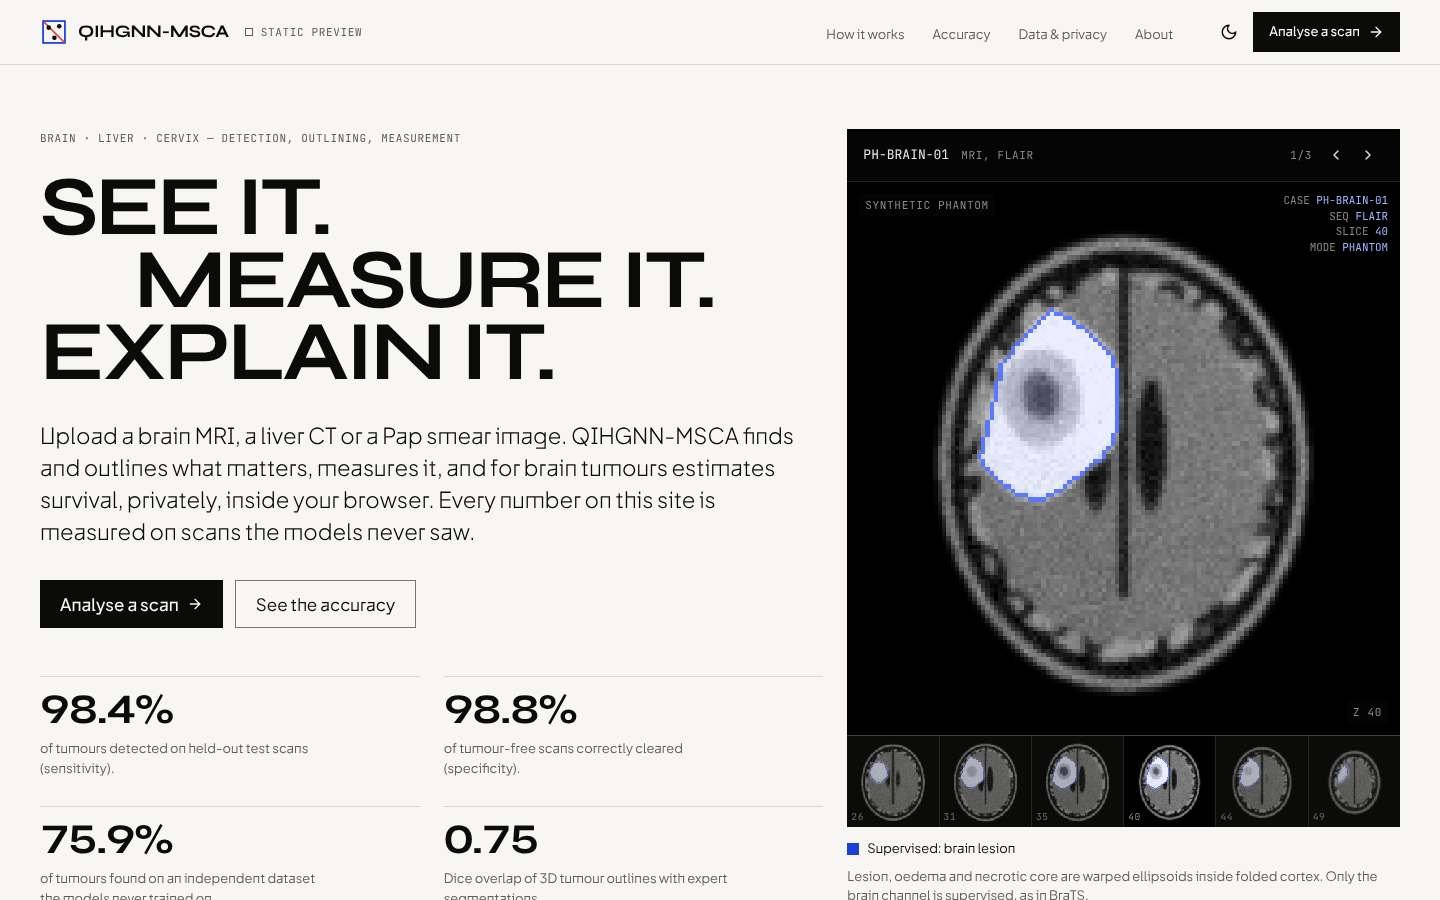
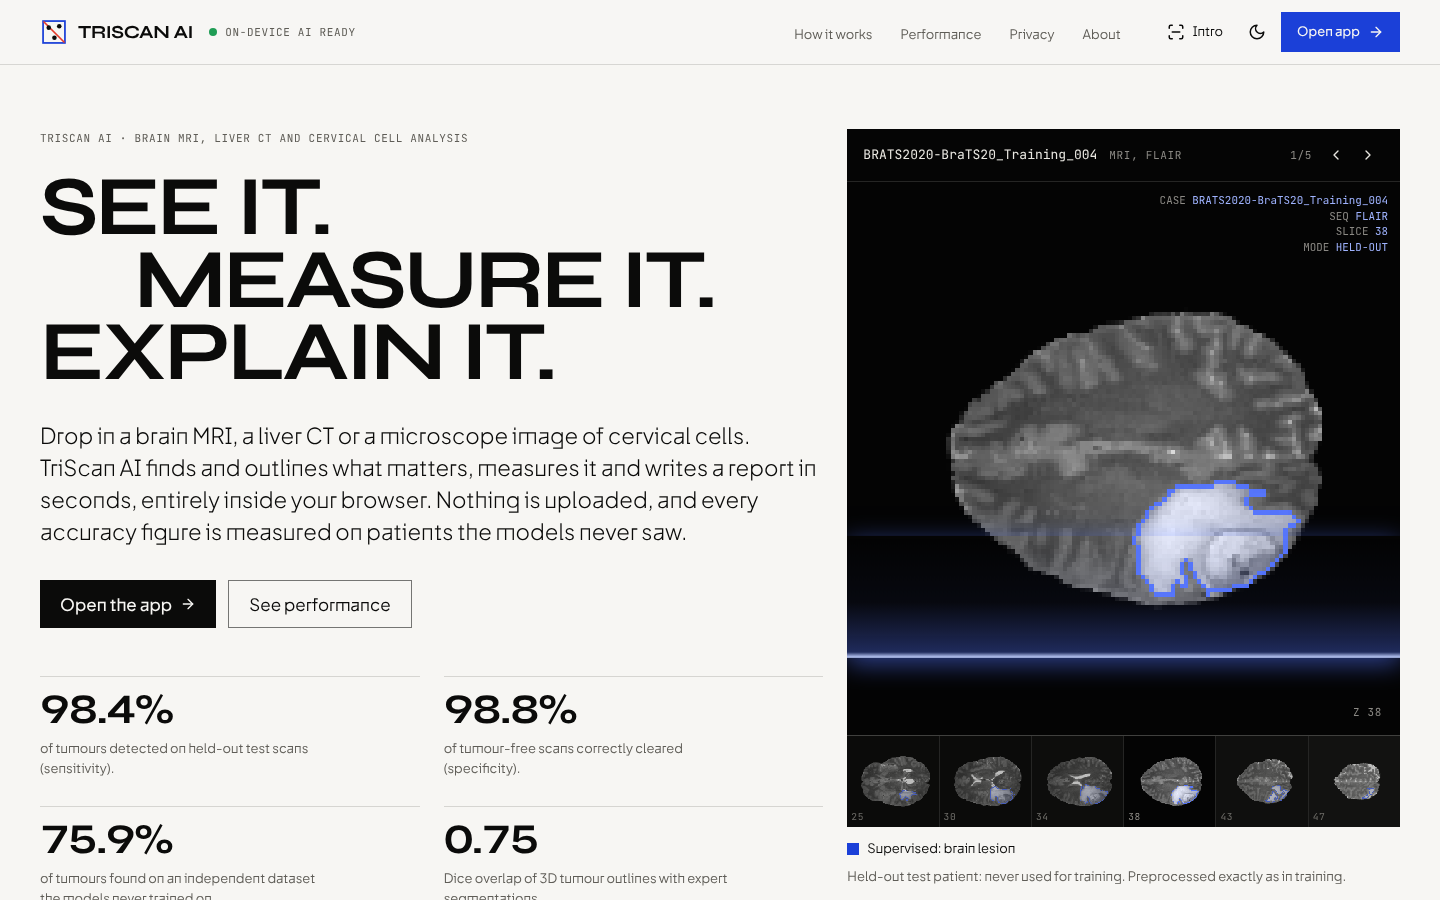
TriScan AI v1.0: product rebrand, installable offline app (PWA), three-step product home page, README refresh
Claude-Session: https://claude.ai/code/session_015mMNjGnUhSi1xSA9WipG7t

diff --git a/web/src/pages/Home.tsx b/web/src/pages/Home.tsx
@@ -1,4 +1,4 @@
-import { LuArrowRight, LuBrain, LuChartLine, LuScanSearch, LuShieldCheck } from 'react-icons/lu';
+import { LuArrowRight, LuBrain, LuChartLine, LuCpu, LuFileText, LuScanSearch, LuShieldCheck, LuUpload } from 'react-icons/lu';
 import { Container } from '../components/chrome';
 import { CountUp, Reveal, Ticker } from '../components/fx';
 import { Hero } from '../components/Hero';
@@ -30,7 +30,7 @@ export function Home({ cases }: { cases: CaseInfo[] }) {
   return (
     <>
       <Hero cases={cases}>
-        <p className="meta mb-6 text-muted">Brain · liver · cervix — detection, outlining, measurement</p>
+        <p className="meta mb-6 text-muted">TriScan AI · brain MRI, liver CT and cervical cell analysis</p>
         {/* Sized in container units so the longest line fills the column at any width. */}
         <h1 id="hero-title" className="display leading-[0.86]" style={{ fontSize: 'calc(100cqi / 9.3)' }}>
           <span className="block">See it.</span>
@@ -38,15 +38,15 @@ export function Home({ cases }: { cases: CaseInfo[] }) {
           <span className="block">Explain it.</span>
         </h1>
         <p className="mt-8 max-w-[54ch] text-lead font-light">
-          Upload a brain MRI, a liver CT or a microscope image of cervical cells. QIHGNN-MSCA finds and outlines what matters, measures it, and for brain
-          tumours estimates survival, privately, inside your browser. Every number on this site is measured on scans the models never saw.
+          Drop in a brain MRI, a liver CT or a microscope image of cervical cells. TriScan AI finds and outlines what matters, measures it and writes
+          a report in seconds, entirely inside your browser. Nothing is uploaded, and every accuracy figure is measured on patients the models never saw.
         </p>
         <div className="mt-8 flex flex-wrap gap-3">
           <Link to="/analyse" className="inline-flex h-12 items-center gap-2 bg-fg px-5 font-medium text-surface no-underline hover:bg-cobalt">
-            Analyse a scan <LuArrowRight className="size-4" aria-hidden="true" />
+            Open the app <LuArrowRight className="size-4" aria-hidden="true" />
           </Link>
           <Link to="/accuracy" className="inline-flex h-12 items-center gap-2 border border-rule-strong px-5 no-underline hover:bg-raised">
-            See the accuracy
+            See performance
           </Link>
         </div>
         <div className="mt-auto grid grid-cols-2 gap-x-6 gap-y-7 pt-12">
@@ -71,7 +71,7 @@ export function Home({ cases }: { cases: CaseInfo[] }) {
       <section className="border-t border-rule-strong py-16 md:py-24" aria-labelledby="what-title">
         <Container>
           <div className="grid grid-cols-12 gap-x-6 gap-y-10">
-            <h2 id="what-title" className="display col-span-12 text-h2 md:col-span-4"><Reveal>Three cancers. One private tool.</Reveal></h2>
+            <h2 id="what-title" className="display col-span-12 text-h2 md:col-span-4"><Reveal>Three cancers. One private app.</Reveal></h2>
             <div className="col-span-12 grid gap-px bg-rule md:col-span-8 md:grid-cols-3">
               {[
                 { icon: LuBrain, to: '/analyse?type=brain', t: 'Brain MRI', d: 'Tumour or not, and which type: glioma, meningioma or pituitary. Outline, volume on 3D scans, a decision heat map and a survival estimate for glioma.', s: ready && t ? `${pct(t.tumour_vs_no_tumour.sensitivity)} of tumours found` : 'Accuracy published after training' },
@@ -89,6 +89,32 @@ export function Home({ cases }: { cases: CaseInfo[] }) {
                 </Reveal>
               ))}
             </div>
+          </div>
+        </Container>
+      </section>
+
+      <section className="border-t border-rule-strong py-16 md:py-24" aria-labelledby="steps-title">
+        <Container>
+          <div className="grid grid-cols-12 gap-x-6 gap-y-10">
+            <h2 id="steps-title" className="display col-span-12 text-h2 md:col-span-4"><Reveal>From scan to report in three steps.</Reveal></h2>
+            <ol className="col-span-12 grid gap-px bg-rule md:col-span-8 md:grid-cols-3">
+              {[
+                { icon: LuUpload, t: 'Drop in a scan', d: 'JPEG or PNG slices, or a whole 3D NIfTI volume. Try a held-out sample if you have none to hand.' },
+                { icon: LuCpu, t: 'AI runs on your device', d: 'Seven models load once and run in a background thread of your browser. No account, no upload, no server.' },
+                { icon: LuFileText, t: 'Review and export', d: 'Drag the slider to compare with the original, read the measurements and print or save the report as a PDF.' },
+              ].map(({ icon: Icon, t: title, d }, i) => (
+                <Reveal key={title} delay={i * 120} className="flex bg-surface">
+                  <li className="flex flex-col p-6">
+                    <span className="flex items-center gap-3">
+                      <span className="font-mono text-small text-muted">0{i + 1}</span>
+                      <Icon className="size-5 text-cobalt" aria-hidden="true" />
+                    </span>
+                    <h3 className="display mt-6 text-h3">{title}</h3>
+                    <p className="mt-3 text-small text-muted">{d}</p>
+                  </li>
+                </Reveal>
+              ))}
+            </ol>
           </div>
         </Container>
       </section>
@@ -116,7 +142,7 @@ export function Home({ cases }: { cases: CaseInfo[] }) {
               </li>
             </ul>
           </div>
-          <Link to="/accuracy" className="mt-10 inline-flex items-center gap-2 text-film-fg">Read the full evaluation <LuArrowRight className="size-4" aria-hidden="true" /></Link>
+          <Link to="/accuracy" className="mt-10 inline-flex items-center gap-2 text-film-fg">See full performance <LuArrowRight className="size-4" aria-hidden="true" /></Link>
         </Container>
       </section>
 
@@ -141,13 +167,13 @@ export function Home({ cases }: { cases: CaseInfo[] }) {
       <section className="border-t border-rule-strong py-16 md:py-24" aria-labelledby="research-title">
         <Container>
           <div className="grid grid-cols-12 gap-x-6 gap-y-8">
-            <p className="meta col-span-12 text-muted md:col-span-3">Under the hood</p>
+            <p className="meta col-span-12 text-muted md:col-span-3">Powered by QIHGNN-MSCA</p>
             <div className="col-span-12 md:col-span-9">
               <h2 id="research-title" className="display max-w-[18ch] text-h2"><Reveal>A research model that learns from incomplete labels.</Reveal></h2>
               <p className="mt-6 max-w-[62ch] text-lead font-light">
-                Public datasets each label one organ. QIHGNN-MSCA is an 8.3-million-parameter 3D network that trains on all of them together
-                without being taught that every unlabelled organ is empty tissue, and predicts survival from the same encoding. The viewer at
-                the top of this page shows it on a synthetic phantom.
+                Public datasets each label one organ. QIHGNN-MSCA, the network behind TriScan AI, is an 8.3-million-parameter 3D model that trains
+                on all of them together without being taught that every unlabelled organ is empty tissue, and predicts survival from the same
+                encoding. The viewer at the top of this page shows real held-out patients, and How it works runs the network on them live in your browser.
               </p>
               <Link to="/how-it-works" className="mt-6 inline-flex items-center gap-2">How it works <LuArrowRight className="size-4" aria-hidden="true" /></Link>
             </div>

diff --git a/web/src/components/chrome.tsx b/web/src/components/chrome.tsx
@@ -1,5 +1,6 @@
 import { useEffect, useState, type ReactNode } from 'react';
-import { LuArrowRight, LuMenu, LuMoon, LuScanLine, LuSun, LuX } from 'react-icons/lu';
+import { LuArrowRight, LuDownload, LuMenu, LuMoon, LuScanLine, LuSun, LuX } from 'react-icons/lu';
+import { useInstall } from '../lib/pwa';
 import { Link, openIntro, ROUTES } from '../lib/router';
 import type { ApiState } from '../lib/data';
 
@@ -49,9 +50,11 @@ export function StatusDot({ api }: { api: ApiState }) {
     );
   }
   return (
-    <span className="inline-flex items-center gap-2" title="The Python API is not running. Everything except running the network works.">
-      <span className="inline-flex size-2 border border-muted" />
-      <span className="meta text-muted">Static preview</span>
+    <span className="inline-flex items-center gap-2" title="All models run in your browser. No server needed, nothing uploaded.">
+      <span className="relative flex size-2">
+        <span className="relative inline-flex size-2 rounded-full bg-[#1f9d55]" />
+      </span>
+      <span className="meta text-muted">On-device AI ready</span>
     </span>
   );
 }
@@ -60,6 +63,7 @@ const NAV = ROUTES.filter((r) => r.path !== '/' && r.path !== '/analyse');
 
 export function Header({ api, path }: { api: ApiState; path: string }) {
   const [theme, toggle] = useTheme();
+  const install = useInstall();
   const [menu, setMenu] = useState(false);
   useEffect(() => setMenu(false), [path]);
   return (
@@ -68,7 +72,7 @@ export function Header({ api, path }: { api: ApiState; path: string }) {
         <Link
           to="/"
           className="flex items-center gap-2.5 no-underline"
-          aria-label="QIHGNN-MSCA: back to the interactive intro"
+          aria-label="TriScan AI: back to the interactive intro"
           title="Back to the interactive intro"
           onClick={(e) => {
             if (e.button !== 0 || e.metaKey || e.ctrlKey || e.shiftKey || e.altKey) return;
@@ -77,7 +81,7 @@ export function Header({ api, path }: { api: ApiState; path: string }) {
           }}
         >
           <Mark className="size-7" />
-          <span className="display text-[1.1rem] tracking-[-0.02em]">QIHGNN-MSCA</span>
+          <span className="display text-[1.15rem] tracking-[-0.02em]">TriScan AI</span>
         </Link>
         <span className="hidden lg:inline-flex">
           <StatusDot api={api} />
@@ -108,6 +112,18 @@ export function Header({ api, path }: { api: ApiState; path: string }) {
             <LuScanLine className="size-[18px]" aria-hidden="true" />
             <span className="hidden xl:inline">Intro</span>
           </button>
+          {install && (
+            <button
+              type="button"
+              onClick={install}
+              className="inline-flex h-10 items-center gap-2 px-2.5 text-small text-fg hover:bg-raised"
+              aria-label="Install TriScan AI as an app"
+              title="Install TriScan AI as an app (works offline)"
+            >
+              <LuDownload className="size-[18px]" aria-hidden="true" />
+              <span className="hidden xl:inline">Install app</span>
+            </button>
+          )}
           <button
             type="button"
             onClick={toggle}
@@ -121,7 +137,7 @@ export function Header({ api, path }: { api: ApiState; path: string }) {
             aria-current={path === '/analyse' ? 'page' : undefined}
             className="hidden h-10 items-center gap-2 bg-fg px-4 text-small font-medium text-surface no-underline hover:bg-cobalt sm:inline-flex"
           >
-            Analyse a scan <LuArrowRight className="size-4" aria-hidden="true" />
+            Open app <LuArrowRight className="size-4" aria-hidden="true" />
           </Link>
           <button
             type="button"

diff --git a/web/src/components/Footer.tsx b/web/src/components/Footer.tsx
@@ -1,4 +1,4 @@
-import { BUILD, VERSION } from '../lib/build';
+import { BUILD, MODEL, VERSION } from '../lib/build';
 import { Link, openIntro, ROUTES } from '../lib/router';
 import type { Verification } from '../lib/types';
 import { Container, Mark } from './chrome';
@@ -20,29 +20,30 @@ export function Footer({ verification }: { verification: Verification | null }) 
           <div className="col-span-12 lg:col-span-5">
             <Link to="/" className="flex items-center gap-3 no-underline">
               <Mark className="size-9 shrink-0" />
-              <span className="display text-[1.35rem]">QIHGNN-MSCA</span>
+              <span className="display text-[1.35rem]">TriScan AI</span>
             </Link>
             <p className="mt-4 max-w-[46ch] text-small text-muted">
-              Brain tumour detection and prognosis, liver tumour and cervical cell analysis in the browser, with accuracy measured in the open.
+              Private AI for medical scans: brain MRI, liver CT and cervical cell analysis that runs entirely in your browser, powered by the {MODEL} network.
             </p>
-            <p className="mt-6 text-small">A project by <span className="font-medium">Anindita Mondal</span>.</p>
+            <p className="mt-6 text-small">Designed and built by <span className="font-medium">Anindita Mondal</span>. © {new Date().getFullYear()}</p>
           </div>
           <div className="col-span-12 grid grid-cols-2 gap-x-6 gap-y-8 sm:grid-cols-3 lg:col-span-7">
-            <Col title="Site">
+            <Col title="Product">
               <ul className="space-y-2">
                 {ROUTES.map((r) => <li key={r.path}><Link to={r.path} className="no-underline hover:underline">{r.name}</Link></li>)}
               </ul>
             </Col>
-            <Col title="Project">
+            <Col title="Resources">
               <ul className="space-y-2">
                 <li><Link to="/about#limitations" className="no-underline hover:underline">Intended use and limitations</Link></li>
                 <li><Link to="/data" className="no-underline hover:underline">Privacy</Link></li>
                 <li><button type="button" onClick={openIntro} className="text-left hover:underline">Replay the intro</button></li>
               </ul>
             </Col>
-            <Col title="Build">
+            <Col title="Release">
               <p className="font-mono text-[0.75rem] leading-relaxed text-muted">
-                v{VERSION}<br />
+                TriScan AI v{VERSION}<br />
+                model {MODEL}<br />
                 {BUILD.commit ? `commit ${BUILD.commit}` : 'local build'}<br />
                 {verification ? `maths verified ${verification.generated_at.slice(0, 10)}` : ''}
               </p>

diff --git a/web/index.html b/web/index.html
@@ -4,8 +4,18 @@
     <meta charset="utf-8" />
     <base href="%BASE%" />
     <meta name="viewport" content="width=device-width, initial-scale=1" />
-    <title>QIHGNN-MSCA · Brain tumour detection, outlining and prognosis</title>
-    <meta name="description" content="Upload a brain MRI and get a tumour check, an outline and a survival estimate, computed privately in your browser. Every number is measured on held-out and external data." />
+    <title>TriScan AI · Brain MRI, liver CT and cervical cell analysis in your browser</title>
+    <meta name="description" content="TriScan AI analyses brain MRI, liver CT and cervical cell images in seconds, entirely in your browser: detection, outlines, measurements and a report. Nothing is uploaded." />
+    <meta name="application-name" content="TriScan AI" />
+    <meta name="apple-mobile-web-app-title" content="TriScan AI" />
+    <meta name="theme-color" content="#0B0B0A" />
+    <meta property="og:type" content="website" />
+    <meta property="og:title" content="TriScan AI · Medical scan analysis in your browser" />
+    <meta property="og:description" content="Brain MRI, liver CT and cervical cell analysis that runs entirely in your browser. Nothing is uploaded." />
+    <meta property="og:image" content="https://aninditamondal303.github.io/QIHGNN-MSCA-Quantum-Inspired-Hypergraph-Neural-Network-for-Multi-Organ-Segmentation-Prognosis/icons/og.png" />
+    <meta name="twitter:card" content="summary_large_image" />
+    <link rel="manifest" href="manifest.webmanifest" />
+    <link rel="apple-touch-icon" href="icons/icon-192.png" />
     <meta name="color-scheme" content="light dark" />
     <link rel="icon" href="favicon.svg" type="image/svg+xml" />
     <link rel="preload" href="fonts/Syne-var.woff" as="font" type="font/woff" crossorigin />

diff --git a/web/src/lib/pwa.ts b/web/src/lib/pwa.ts
@@ -1,0 +1,52 @@
+import { useEffect, useState } from 'react';
+
+/** Offline support and install prompt. The service worker is registered on the deployed site only,
+ *  so local development and the browser tests always see fresh files. */
+const LOCAL = ['localhost', '127.0.0.1', '[::1]'].includes(location.hostname);
+
+export function registerServiceWorker(): void {
+  if (LOCAL || !('serviceWorker' in navigator)) return;
+  window.addEventListener('load', () => {
+    navigator.serviceWorker.register('sw.js').catch(() => {
+      /* offline support is a bonus; the app works without it */
+    });
+  });
+}
+
+interface InstallEvent extends Event {
+  prompt: () => Promise<void>;
+  userChoice: Promise<{ outcome: 'accepted' | 'dismissed' }>;
+}
+
+let deferred: InstallEvent | null = null;
+const listeners = new Set<() => void>();
+window.addEventListener('beforeinstallprompt', (e) => {
+  e.preventDefault();
+  deferred = e as InstallEvent;
+  listeners.forEach((f) => f());
+});
+window.addEventListener('appinstalled', () => {
+  deferred = null;
+  listeners.forEach((f) => f());
+});
+
+/** Returns an install function while the browser offers installation, otherwise null. */
+export function useInstall(): (() => Promise<void>) | null {
+  const [, tick] = useState(0);
+  useEffect(() => {
+    const f = () => tick((n) => n + 1);
+    listeners.add(f);
+    return () => {
+      listeners.delete(f);
+    };
+  }, []);
+  if (!deferred) return null;
+  return async () => {
+    const d = deferred;
+    if (!d) return;
+    await d.prompt();
+    await d.userChoice;
+    deferred = null;
+    listeners.forEach((f) => f());
+  };
+}

diff --git a/web/src/pages/Intro.tsx b/web/src/pages/Intro.tsx
@@ -382,14 +382,14 @@ export function Intro({ onEnter }: { onEnter: () => void }) {
       />
 
       <div className="pointer-events-none absolute inset-x-0 top-0 flex items-center justify-between px-5 py-5 sm:px-10">
-        <span className="font-display text-[0.95rem] font-bold tracking-tight">QIHGNN-MSCA</span>
+        <span className="font-display text-[0.95rem] font-bold tracking-tight">TriScan AI</span>
         <button type="button" onClick={finish} className="pointer-events-auto font-mono text-[0.72rem] uppercase tracking-[0.18em] text-[#f2f1ec]/70 hover:text-white focus-visible:outline focus-visible:outline-2 focus-visible:outline-white">
           Skip intro →
         </button>
       </div>
 
       <div className="pointer-events-none absolute left-5 top-[18%] max-w-[90vw] sm:left-10 sm:top-1/2 sm:-translate-y-1/2">
-        <p className="font-mono text-[0.7rem] uppercase tracking-[0.22em] text-[#f2f1ec]/55">Quantum-inspired hypergraph network · by Anindita Mondal</p>
+        <p className="font-mono text-[0.7rem] uppercase tracking-[0.22em] text-[#f2f1ec]/55">TriScan AI · medical scan analysis · by Anindita Mondal</p>
         <h1 className="mt-4 font-display font-extrabold uppercase leading-[0.86] tracking-tight" style={{ fontSize: 'clamp(2.9rem, 7.2vw, 7.4rem)' }}>
           Look<br />inside
           <span key={organ} className="intro-word block text-[#5474ff]">{ORGANS[organ].line}</span>

diff --git a/web/src/lib/router.tsx b/web/src/lib/router.tsx
@@ -8,8 +8,8 @@ export const ROUTES = [
   { path: '/', name: 'Home' },
   { path: '/analyse', name: 'Analyse a scan' },
   { path: '/how-it-works', name: 'How it works' },
-  { path: '/accuracy', name: 'Accuracy' },
-  { path: '/data', name: 'Data & privacy' },
+  { path: '/accuracy', name: 'Performance' },
+  { path: '/data', name: 'Privacy' },
   { path: '/about', name: 'About' },
 ] as const;
 
@@ -71,6 +71,6 @@ export function Link({ to, onClick, ...rest }: AnchorHTMLAttributes<HTMLAnchorEl
 
 export function useTitle(title: string): void {
   useEffect(() => {
-    document.title = title ? `${title} · QIHGNN-MSCA` : 'QIHGNN-MSCA · Brain tumour detection, outlining and prognosis';
+    document.title = title ? `${title} · TriScan AI` : 'TriScan AI · Brain MRI, liver CT and cervical cell analysis in your browser';
   }, [title]);
 }

diff --git a/web/src/pages/About.tsx b/web/src/pages/About.tsx
@@ -22,8 +22,8 @@ export function About() {
   return (
     <>
       <PageHead eyebrow="About" title="Built by Anindita Mondal.">
-        QIHGNN-MSCA is an independent project in medical imaging AI: from a 3D research network for partially labelled multi-organ data to a
-        private, browser-based tool for brain, liver and cervical cancer imaging, with its accuracy measured in the open.
+        TriScan AI is a private, browser-based app for brain, liver and cervical cancer imaging, with its accuracy measured in the open. It is
+        powered by QIHGNN-MSCA, a 3D research network for partially labelled multi-organ data, designed, trained and shipped end to end.
       </PageHead>
       <Container className="pb-24">
         <section aria-labelledby="diff-t" className="border-t border-rule-strong py-12">

diff --git a/web/src/components/Hero.tsx b/web/src/components/Hero.tsx
@@ -68,7 +68,7 @@ export function Hero({ cases, children }: { cases: CaseInfo[]; verification?: Ve
                   </button>
                 </div>
               </div>
-              <ScanHud readout={[['CASE', info?.id ?? '—'], ['SEQ', info?.channels[channel]?.name ?? '—'], ['SLICE', `${z ?? 0}`], ['MODE', 'PHANTOM']]}>
+              <ScanHud readout={[['CASE', info?.id ?? '—'], ['SEQ', info?.channels[channel]?.name ?? '—'], ['SLICE', `${z ?? 0}`], ['MODE', info?.synthetic ? 'PHANTOM' : 'HELD-OUT']]}>
               <div className="relative">
                 <FilmCanvas
                   image={image}

diff --git a/web/src/lib/build.ts b/web/src/lib/build.ts
@@ -2,4 +2,9 @@ declare const __BUILD__: { time: string; commit: string | null; repo: string | n
 
 /** Injected by scripts/build.mjs (GIT_COMMIT and REPO_URL environment variables are optional). */
 export const BUILD = typeof __BUILD__ !== 'undefined' ? __BUILD__ : { time: new Date().toISOString(), commit: null, repo: null };
-export const VERSION = '0.4.0';
+export const VERSION = '1.0.0';
+
+/** Product name; QIHGNN-MSCA is the research network inside it. */
+export const PRODUCT = 'TriScan AI';
+export const MODEL = 'QIHGNN-MSCA';
+export const TAGLINE = 'Medical scan analysis in your browser';

diff --git a/web/src/pages/Accuracy.tsx b/web/src/pages/Accuracy.tsx
@@ -100,7 +100,7 @@ function KM({ km }: { km: NonNullable<ScreenMetrics['survival']>['risk_groups'][
 }
 
 export function Accuracy({ metrics3d, history, verification, loading3d }: { metrics3d: MetricsFile | null; history: TrainingHistory | null; verification: Verification | null; loading3d: boolean }) {
-  useTitle('Accuracy');
+  useTitle('Performance');
   const { metrics, ready } = useScreen();
   const organs = useOrgans();
   const lv = organs.liverReady ? organs.metrics?.liver : undefined;

diff --git a/web/src/pages/DataPrivacy.tsx b/web/src/pages/DataPrivacy.tsx
@@ -18,7 +18,7 @@ const DATASETS: { name: string; role: string; what: string; href?: string }[] = 
 ];
 
 export function DataPrivacy({ corpus }: { corpus: CorpusFile | null }) {
-  useTitle('Data & privacy');
+  useTitle('Privacy');
   const { metrics } = useScreen();
   const a = metrics?.dedup_audit;
   const cd = metrics?.classifier_data;
